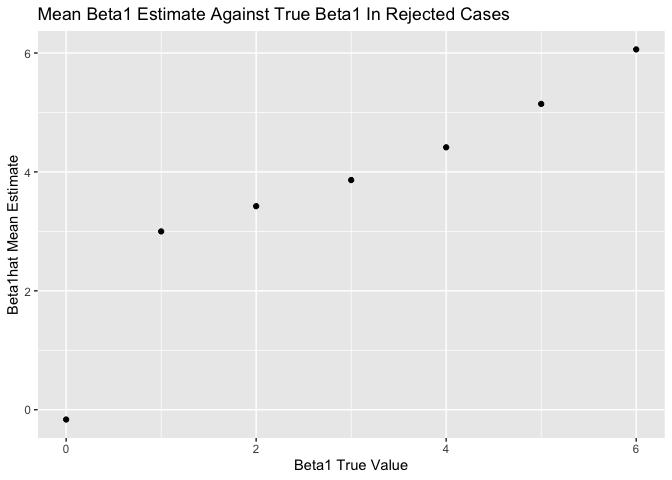
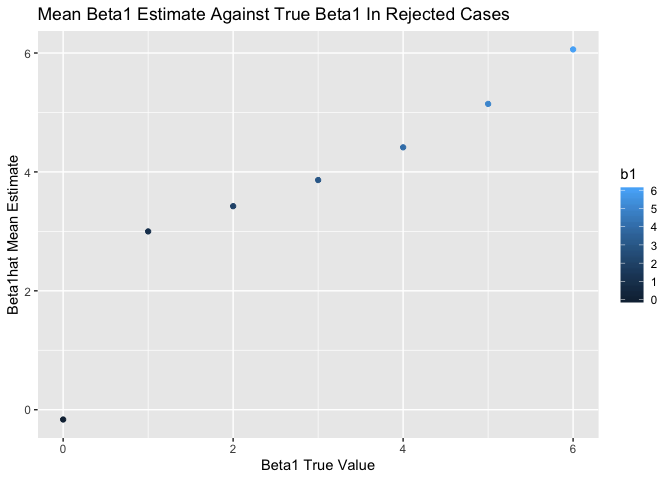
Adding color to ggplots in problem 3 to better visualize points.

diff --git a/HW5-RMarkdown.md b/HW5-RMarkdown.md
@@ -439,7 +439,7 @@ results_10k %>%
   count(reject) %>%
   mutate(freq = (n/100)) %>%
   filter(reject == "yes") %>%
-  ggplot(aes(x = b1, y = freq)) + geom_point() +
+  ggplot(aes(x = b1, y = freq, color = b1)) + geom_point() +
   labs(title = "Association Between Power and Effect Size",
        x = "Beta1 True Value",
        y = "Power")
@@ -464,7 +464,7 @@ graph_1 =
          reject = as.factor(reject)) %>%
   group_by(b1) %>%
   summarise(est_b1_mean = mean(b1_estimate)) %>%
-  ggplot(aes(x = b1, y = est_b1_mean)) + geom_point() +
+  ggplot(aes(x = b1, y = est_b1_mean, color = b1)) + geom_point() +
   labs(title = "Mean Beta1 Estimate Against True Beta1 in All Observations",
        x = "Beta1 True Value",
        y = "Beta1hat Mean Estimate")
@@ -487,7 +487,7 @@ graph_2 =
   group_by(b1) %>%
   filter(reject == "yes") %>%
   summarise(est_b1_mean = mean(b1_estimate)) %>%
-  ggplot(aes(x = b1, y = est_b1_mean)) + geom_point() +
+  ggplot(aes(x = b1, y = est_b1_mean, color = b1)) + geom_point() +
   labs(title = "Mean Beta1 Estimate Against True Beta1 In Rejected Cases",
        x = "Beta1 True Value",
        y = "Beta1hat Mean Estimate")
